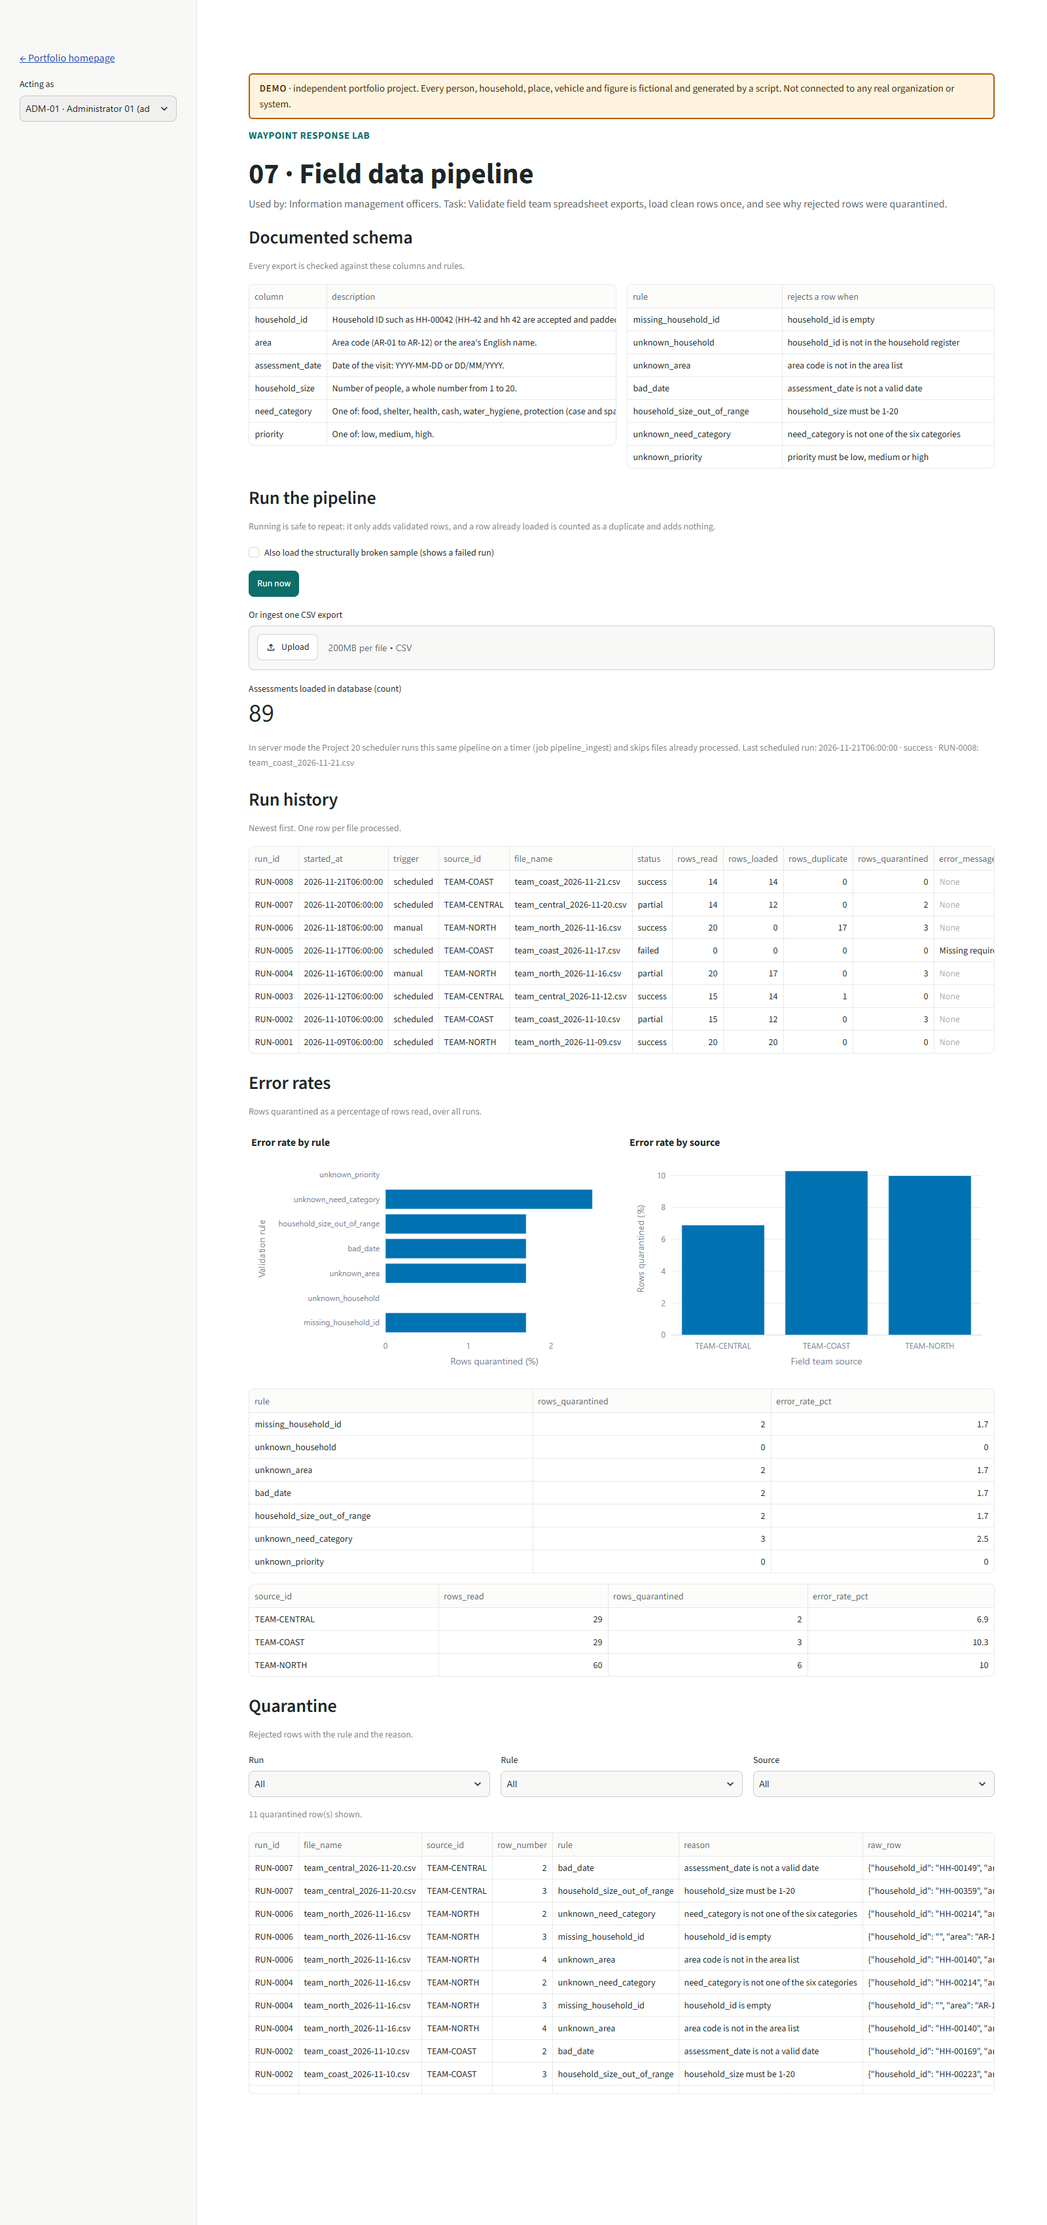
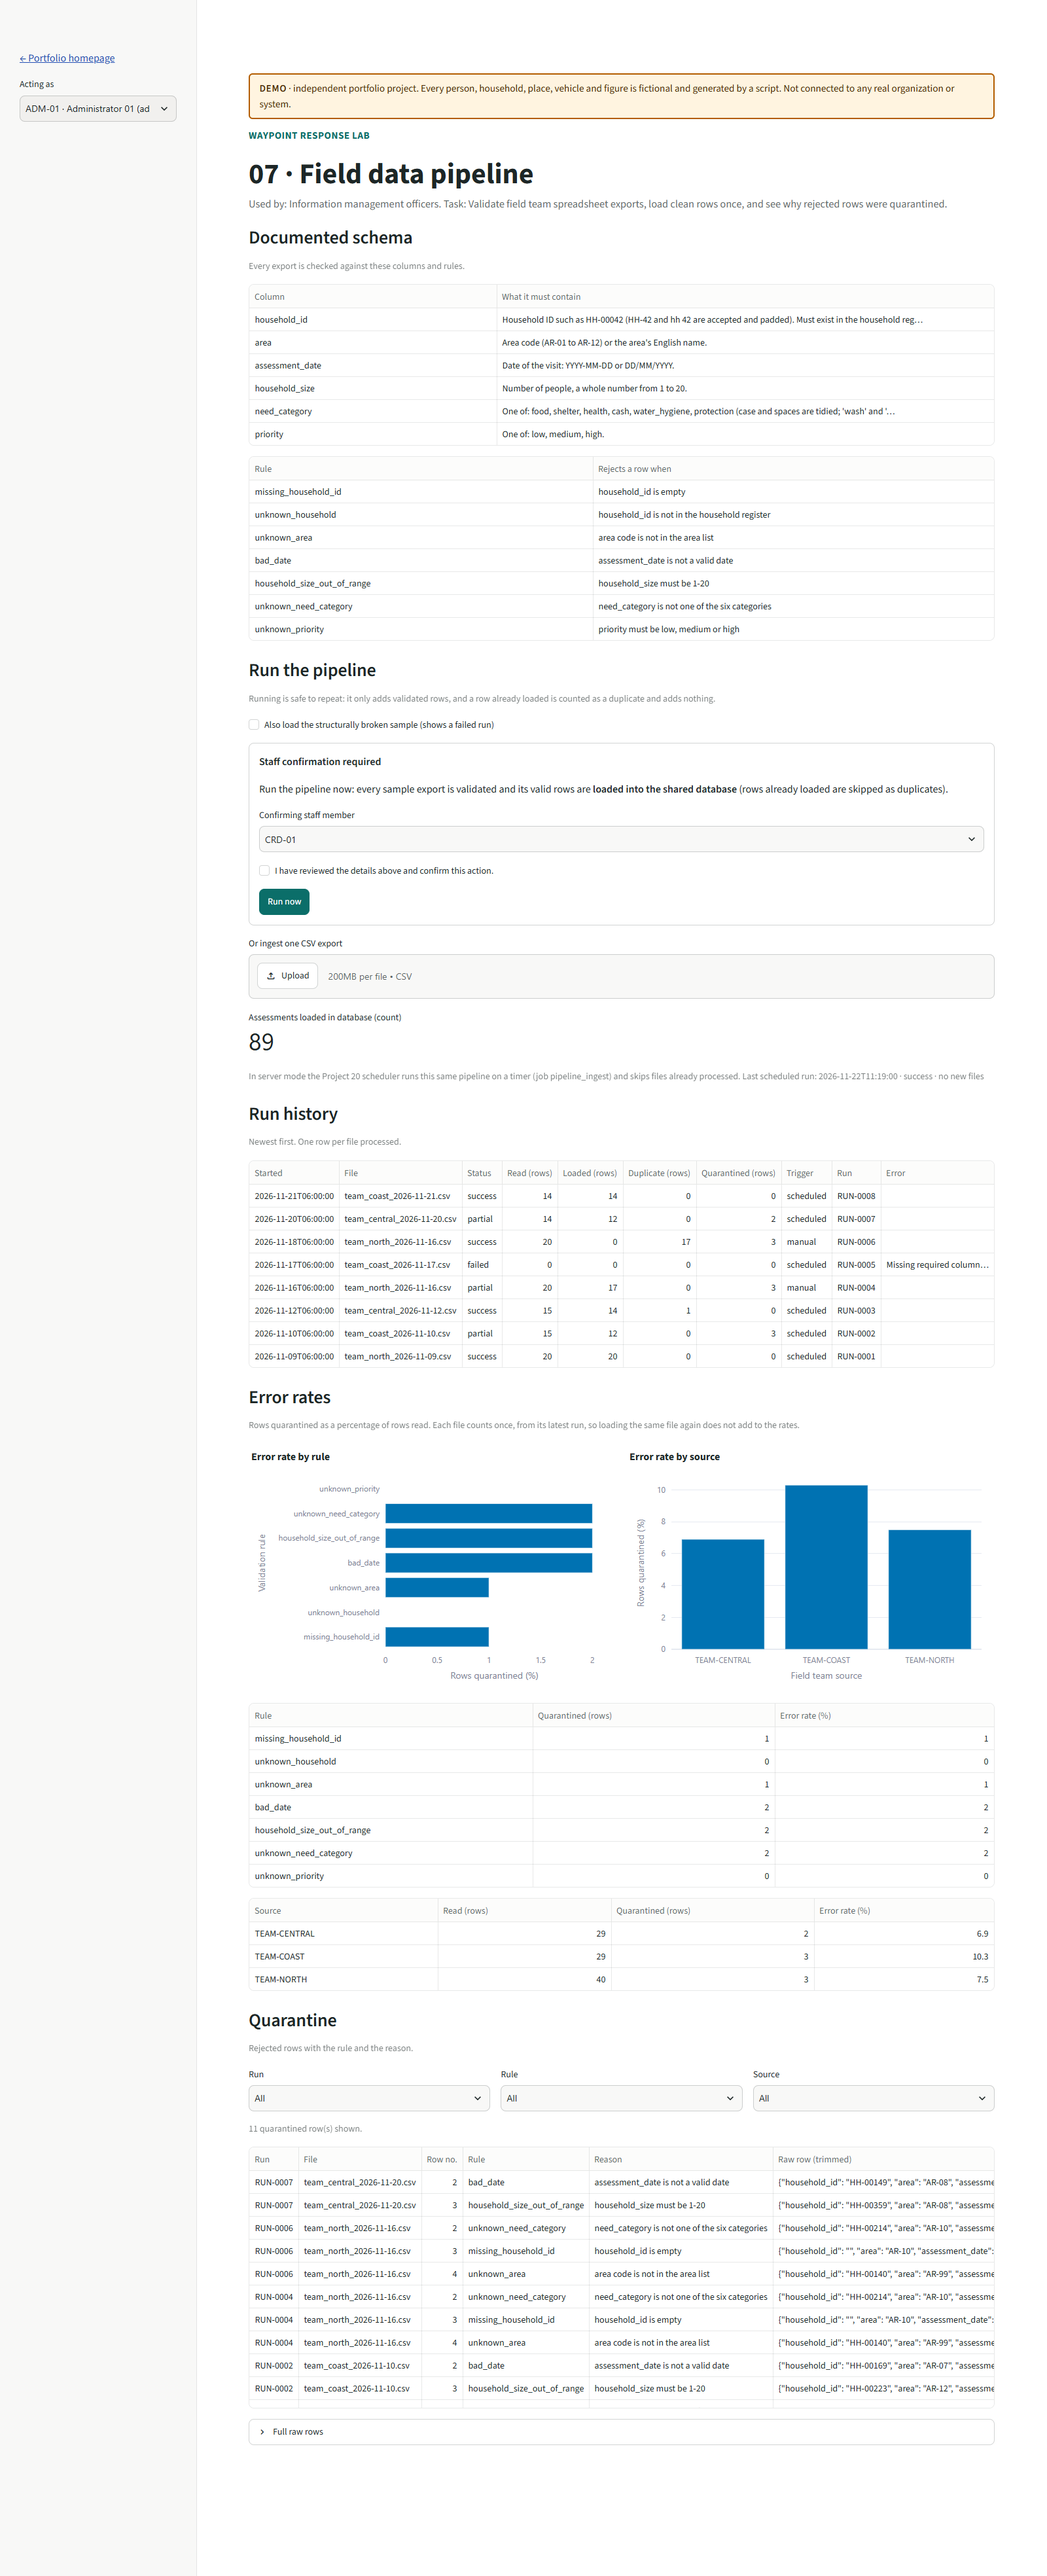
Projects 06, 07, 09, 10: table fixes and retaken screenshots at 1600 px

diff --git a/projects/07-field-data-pipeline/app.py b/projects/07-field-data-pipeline/app.py
@@ -16,7 +16,7 @@ from shared import charts, confirm, db, pipeline, ui  # noqa: E402
 
 def short(text: object, limit: int = 70) -> str:
     """Trim long cell text for display only; the stored value is untouched."""
-    value = "" if text is None else str(text)
+    value = "" if text is None or text != text else str(text)  # None and NaN show as empty
     return value if len(value) <= limit else value[: limit - 1] + "…"
 
 
@@ -39,7 +39,7 @@ staff = ui.staff_selector() or "system"
 
 # -- Documented schema -----------------------------------------------------
 ui.section("Documented schema", "Every export is checked against these columns and rules.")
-ui.table(pd.DataFrame({"Column": list(pipeline.COLUMNS), "What it must contain": list(pipeline.COLUMNS.values())}))
+ui.table(pd.DataFrame({"Column": list(pipeline.COLUMNS), "What it must contain": [short(v, 105) for v in pipeline.COLUMNS.values()]}))
 ui.table(pd.DataFrame({"Rule": list(pipeline.RULES), "Rejects a row when": list(pipeline.RULES.values())}))
 
 # -- Run now ---------------------------------------------------------------
@@ -107,7 +107,7 @@ if last:
     )
     if last["runs"]:
         last_runs = pd.DataFrame(last["runs"]).rename(columns=RUN_COLUMNS)
-        last_runs["Error"] = last_runs["Error"].map(short)
+        last_runs["Error"] = last_runs["Error"].map(lambda t: short(t, 60))
         ui.table(last_runs[["File", "Status", "Read (rows)", "Loaded (rows)", "Duplicate (rows)", "Quarantined (rows)", "Run", "Error"]])
 
 conn = db.connect()
@@ -126,13 +126,12 @@ try:
     ui.section("Run history", "Newest first. One row per file processed.")
     history = stats.run_history(conn)
     shown_history = history.rename(columns=RUN_COLUMNS)
-    shown_history["Error"] = shown_history["Error"].map(short)
+    shown_history["Error"] = shown_history["Error"].map(lambda t: short(t, 24))
     ui.table(
         shown_history[
             [
                 "Started",
                 "File",
-                "Source",
                 "Status",
                 "Read (rows)",
                 "Loaded (rows)",
@@ -142,7 +141,8 @@ try:
                 "Run",
                 "Error",
             ]
-        ]
+        ],
+        column_config={"Error": st.column_config.TextColumn(width="large")},
     )
 
     # -- Error rates --------------------------------------------------------

diff --git a/projects/10-warehouse-stock-forecast/app.py b/projects/10-warehouse-stock-forecast/app.py
@@ -73,9 +73,9 @@ show = forecast_df.rename(
         "recent_daily_demand": "Demand (units/day)",
         "planned_in_horizon": "Planned (units)",
         "stockout_date": "Stockout date",
-        "lead_time_days": "Lead time (days)",
+        "lead_time_days": "Lead (days)",
         "reorder_by": "Reorder by",
-        "suggested_replenishment": "Replenish (units)",
+        "suggested_replenishment": "Order (units)",
         "below_threshold": "Below threshold",
         "reorder_threshold": "Threshold (units)",
         "action": "Flag",
@@ -87,13 +87,12 @@ show = forecast_df.rename(
         "Unit",
         "On hand",
         "Threshold (units)",
-        "Below threshold",
         "Demand (units/day)",
         "Planned (units)",
         "Stockout date",
         "Reorder by",
-        "Lead time (days)",
-        "Replenish (units)",
+        "Lead (days)",
+        "Order (units)",
     ]
 ]
 ui.table(show)

diff --git a/projects/06-family-record-checker/app.py b/projects/06-family-record-checker/app.py
@@ -227,7 +227,8 @@ else:
 ui.section("Decision history", "Every merge and not-duplicate decision, with who decided, when and why.")
 if past:
     ui.table(
-        pd.DataFrame(past).rename(
+        pd.DataFrame(past)
+        .rename(
             columns={
                 "merge_id": "Decision",
                 "decided_at": "When",
@@ -240,6 +241,7 @@ if past:
                 "records_moved": "Moved (rows)",
             }
         )[["When", "Decision", "Outcome", "Kept / A", "Merged / B", "Score (0-1)", "By", "Moved (rows)", "Reason"]]
+        .assign(Reason=lambda d: d["Reason"].map(lambda t: t if len(str(t)) <= 70 else str(t)[:69] + "…"))
     )
 else:
     st.info("No decisions recorded yet.")
